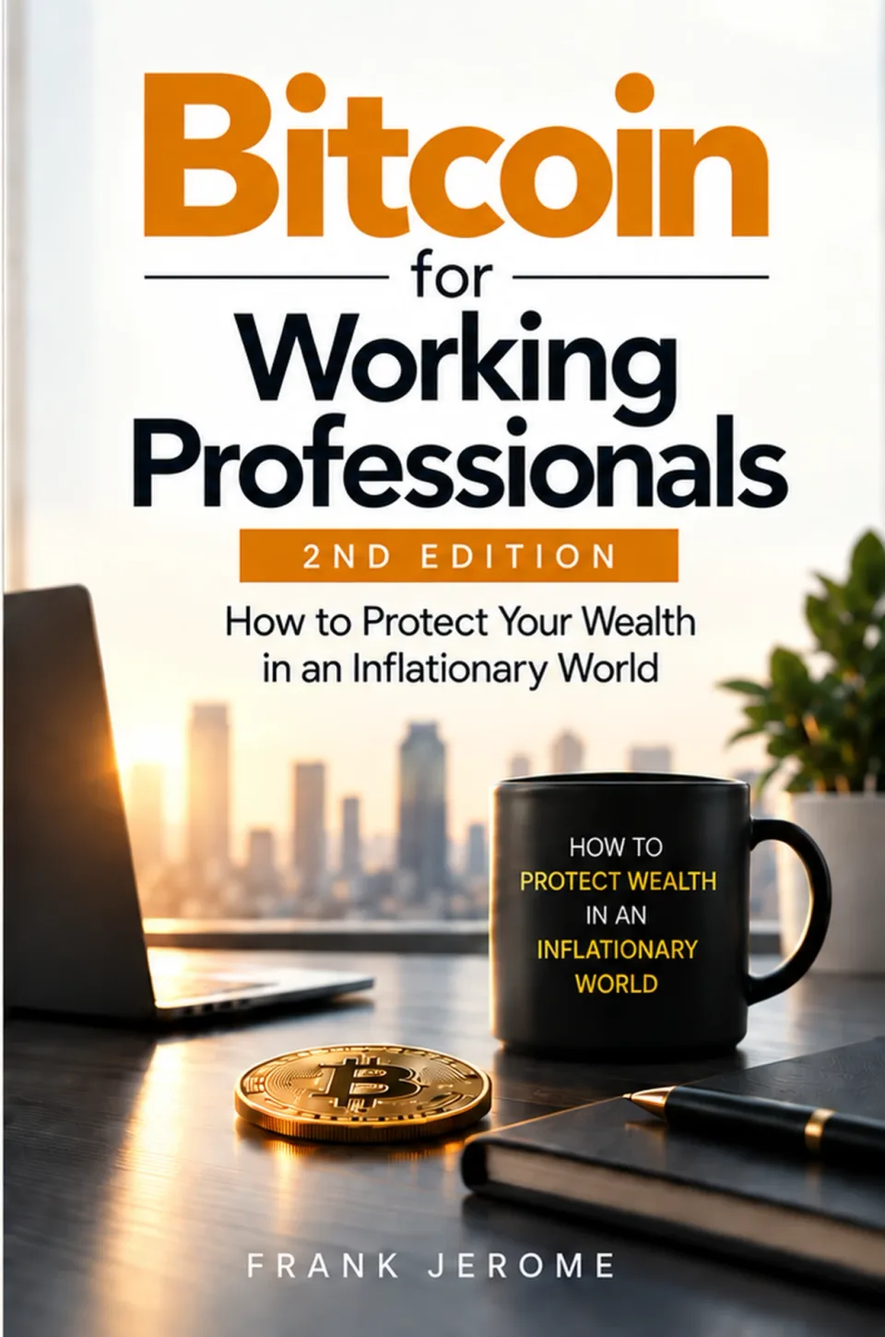
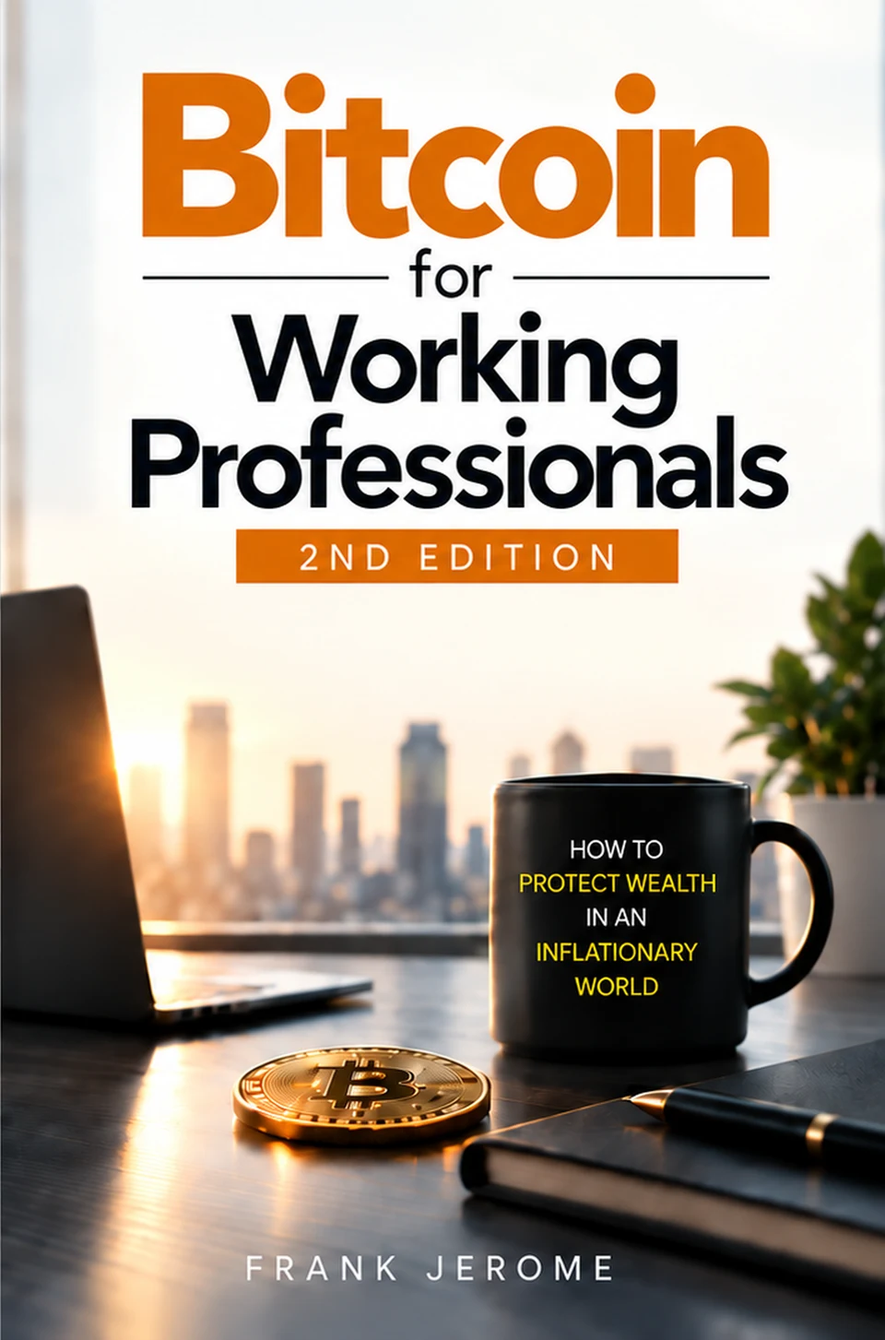
Use supplied actual second-edition book cover across website

diff --git a/tools/preview/v6/index.html b/tools/preview/v6/index.html
@@ -144,7 +144,7 @@
 <section class="interactive" id="interactive" aria-labelledby="sim-title"><div class="shell interactive-layout"><div class="interactive-copy"><p class="eyebrow light">A LITTLE MATH. A LOT MORE CLARITY.</p><h2 id="sim-title">See what the<br><em>future could look like.</em></h2><p>Small, steady contributions can add up over time. Move the sliders and see how this illustrative projection changes instantly.</p><div class="slider-group"><div class="slider-heading"><label for="monthly">Monthly contribution</label><output id="monthly-value" for="monthly">$500</output></div><input id="monthly" type="range" min="50" max="2000" step="50" value="500"><div class="slider-bounds" aria-hidden="true"><span>$50</span><span>$2,000</span></div></div><div class="slider-group"><div class="slider-heading"><label for="years">Time horizon</label><output id="years-value" for="years">20 years</output></div><input id="years" type="range" min="1" max="40" step="1" value="20"><div class="slider-bounds" aria-hidden="true"><span>1 year</span><span>40 years</span></div></div><div class="slider-group"><div class="slider-heading"><label for="return">Hypothetical annual return</label><output id="return-value" for="return">7%</output></div><input id="return" type="range" min="0" max="12" step="0.5" value="7"><div class="slider-bounds" aria-hidden="true"><span>0%</span><span>12%</span></div></div><p class="micro-disclaimer">Illustrative monthly compounding; end-of-month contributions. Not a prediction, investment advice, or guaranteed return.</p><a class="sim-link" href="/tools/money-timeline/">Map your own goals in the Money timeline →</a></div><div class="chart-card"><div class="chart-top"><div><span class="chart-eyebrow">ILLUSTRATIVE PORTFOLIO VALUE</span><div class="chart-big" id="chart-total" aria-live="polite">$260,463</div></div><span class="chart-badge">LIVE DEMO <i></i></span></div><div class="chart-legend" aria-hidden="true"><span><i class="legend-growth"></i> Estimated growth</span><span><i class="legend-saved"></i> Your contributions</span></div><div id="projection-chart" class="projection-chart" role="img" aria-label="Projected portfolio value chart"></div><div class="chart-bottom"><div><span>Total invested</span><strong id="chart-invested">$120,000</strong></div><div><span>Illustrative growth</span><strong id="chart-growth">$140,463</strong></div><div><span>Time horizon</span><strong id="chart-time">20 years</strong></div></div><p class="chart-caveat">Actual returns fluctuate, and investments can lose value. This example excludes taxes, fees and inflation.</p></div></div></section>
 <section class="section guides-section shell reveal" id="guides" aria-labelledby="guides-title"><div class="section-top guide-top"><div><p class="eyebrow">GOOD ADVICE, MINUS THE NOISE <span class="mini-rule"></span></p><h2 id="guides-title">Guidance for life's<br><em>big moments.</em></h2><p>Because life doesn't arrive with an instruction manual.</p></div><a class="underlined-link" href="#tools" data-jump="guides">Browse all guides ↗</a></div><div class="guide-grid"><article class="guide-card feature-guide"><div class="guide-image guide-one"><img src="/tools/preview/v6/img/guide-career.webp" width="820" height="445" loading="lazy" decoding="async" alt="Illustration of a sunlit desk with a laptop, open notebook and coffee"><span class="guide-overlay-label">THE CAREER EDIT</span></div><div class="guide-body"><p class="guide-meta">CAREER · 5 MIN READ</p><h3>Lost your job?<br><em>Start here.</em></h3><p>A calm plan for the next seven days, your next month, and what comes after: unemployment, COBRA and your 401(k).</p><a class="guide-open" href="/tools/guides/lost-my-job/">Read the job-loss guide <span aria-hidden="true">↗</span></a></div></article><article class="guide-card feature-guide"><div class="guide-image guide-two"><img src="/tools/preview/v6/img/guide-home.webp" width="820" height="445" loading="lazy" decoding="async" alt="Illustration of a white suburban home in daylight"><span class="guide-overlay-label">THE HOME EDIT</span></div><div class="guide-body"><p class="guide-meta">HOME · 6 MIN READ</p><h3>First home.<br><em>Fresh perspective.</em></h3><p>What to know about down payments, closing costs, PMI, pre-approval and the numbers that matter.</p><a class="guide-open" href="/tools/guides/first-home/">Read the first-home guide <span aria-hidden="true">↗</span></a></div></article><article class="guide-card small-guide"><div class="small-guide-top"><span aria-hidden="true">✷</span><span>FREE CHECKUP</span></div><h3>A little clarity goes a long way.</h3><p>Answer a few simple questions and discover common financial blind spots, with no scores and no pressure.</p><a class="button dark-button" href="/tools/checkup/">Take the 2-minute checkup <span aria-hidden="true">↗</span></a><div class="small-guide-line"></div><span class="small-guide-foot">PRACTICAL ADVICE FOR REAL LIFE.</span></article></div><p class="more-guides">Also new: <a href="/tools/guides/true-cost-of-a-car/">The true cost of owning a car</a>, with a 5-year cost calculator.</p></section>
 <section class="steps-section" id="insights" aria-labelledby="steps-title"><div class="shell"><div class="steps-header"><p class="eyebrow">THE PYMTW WAY</p><h2 id="steps-title">Less confusion.<br><em>More confidence.</em></h2><p>You don't need to be a financial expert to make thoughtful financial decisions.</p></div><div class="steps-grid"><article><span class="step-num">01</span><div class="step-symbol" aria-hidden="true">⌕</div><h3>Ask a real question.</h3><p>Start with the decision on your mind. We'll point you to the right place to begin.</p></article><article><span class="step-num">02</span><div class="step-symbol" aria-hidden="true">▤</div><h3>Explore the numbers.</h3><p>Change assumptions and compare scenarios using straightforward tools that run on your device.</p></article><article><span class="step-num">03</span><div class="step-symbol" aria-hidden="true">↗</div><h3>See your next step.</h3><p>Walk away with one plain-English answer and practical considerations for what comes next.</p></article></div></div></section>
-<section class="book-section shell reveal" id="book" aria-labelledby="book-title"><div class="book-box"><div class="book-art"><span class="book-stage-orbit" aria-hidden="true"></span><div class="book-shadow" aria-hidden="true"></div><a class="actual-book-link" href="https://amzn.to/4zwsLbQ" target="_blank" rel="noopener sponsored"><img class="actual-book-cover" src="/tools/preview/v6/img/book-cover-504.webp" srcset="/tools/preview/v6/img/book-cover-336.webp 336w, /tools/preview/v6/img/book-cover-504.webp 504w" sizes="252px" alt="Bitcoin for Working Professionals, 2nd Edition, by Frank Jerome (cover). Opens Amazon." width="1236" height="1865" loading="lazy" decoding="async"></a></div><div class="book-copy"><p class="eyebrow">FROM OUR BOOKSHELF</p><h2 id="book-title">Go deeper.<br><em>Put your money to work.</em></h2><p><strong>Bitcoin for Working Professionals, 2nd Edition</strong><br>How to Protect Your Wealth in an Inflationary World.</p><p>Financial confidence grows one decision at a time. A practical, no-hype guide to understanding Bitcoin on your own terms, by Frank Jerome.</p><div class="book-links"><a class="button book-cta" href="https://amzn.to/4zwsLbQ" target="_blank" rel="noopener sponsored">Get the book on Amazon <span aria-hidden="true">↗</span></a><a class="book-page" href="/book/">About the book</a></div><small>Amazon affiliate link. PYMTW may earn from qualifying purchases.</small></div></div></section>
+<section class="book-section shell reveal" id="book" aria-labelledby="book-title"><div class="book-box"><div class="book-art"><span class="book-stage-orbit" aria-hidden="true"></span><div class="book-shadow" aria-hidden="true"></div><a class="actual-book-link" href="https://amzn.to/4zwsLbQ" target="_blank" rel="noopener sponsored"><img class="actual-book-cover" src="/tools/preview/v6/img/book-cover-504.webp" srcset="/tools/preview/v6/img/book-cover-336.webp 336w, /tools/preview/v6/img/book-cover-504.webp 504w" sizes="252px" alt="Bitcoin for Working Professionals, 2nd Edition, by Frank Jerome (cover). Opens Amazon." width="1834" height="2775" loading="lazy" decoding="async"></a></div><div class="book-copy"><p class="eyebrow">FROM OUR BOOKSHELF</p><h2 id="book-title">Go deeper.<br><em>Put your money to work.</em></h2><p><strong>Bitcoin for Working Professionals, 2nd Edition</strong><br>How to Protect Your Wealth in an Inflationary World.</p><p>Financial confidence grows one decision at a time. A practical, no-hype guide to understanding Bitcoin on your own terms, by Frank Jerome.</p><div class="book-links"><a class="button book-cta" href="https://amzn.to/4zwsLbQ" target="_blank" rel="noopener sponsored">Get the book on Amazon <span aria-hidden="true">↗</span></a><a class="book-page" href="/book/">About the book</a></div><small>Amazon affiliate link. PYMTW may earn from qualifying purchases.</small></div></div></section>
 <section class="quote-section shell" aria-label="Our belief"><blockquote>“Financial clarity isn't a luxury.<br><em>It's a brighter tomorrow.</em>”</blockquote><div class="signature"><span></span><strong>PYMTW</strong><small>PUT YOUR MONEY TO WORK</small></div></section>
 <section class="faq-section shell reveal" id="faq" aria-labelledby="faq-title"><p class="eyebrow">THE IMPORTANT DETAILS</p><h2 id="faq-title">Good questions.<br><em>Honest answers.</em></h2><div class="faq-grid"><details open><summary><h3>Are these financial tools really free?</h3></summary><p>Yes. Every PYMTW tool and guide is free to use, with no signup, no paywall and no ads.</p></details><details><summary><h3>Do my numbers leave the browser?</h3></summary><p>No. The calculators run entirely in your browser, so the numbers and files you enter stay on your device. The site counts anonymous page visits with GoatCounter, and if you join the newsletter, the signup form is run by beehiiv, which receives the email address you enter.</p></details><details><summary><h3>Which tool should I start with?</h3></summary><p>If you are not sure, take the 2-minute money checkup. It asks a few questions and gives you a short, prioritized list of what to look at, with links to the right tools.</p></details><details><summary><h3>Is this financial advice?</h3></summary><p>No. The tools are educational and give estimates based on what you enter and the assumptions shown. For decisions about your situation, talk to a licensed professional.</p></details></div></section>
 <section class="newsletter" id="newsletter" aria-labelledby="nl-title"><div class="shell"><div class="newsletter-inner"><div class="newsletter-copy"><p class="eyebrow">NEWSLETTER</p><h2 id="nl-title">One genuinely useful money idea per issue</h2><p class="newsletter-sub">Free. No spam. Unsubscribe anytime.</p><p class="newsletter-archive"><a href="https://pymtwtools.beehiiv.com" target="_blank" rel="noopener">Browse the newsletter archive ↗</a></p></div><div class="newsletter-form"></div></div></div></section>

diff --git a/tools/index.html b/tools/index.html
@@ -176,7 +176,7 @@
 
   <section class="trust-section shell" id="trust" aria-labelledby="trust-title"><div class="trust-heading"><p class="eyebrow">CLEAR ABOUT THE DETAILS</p><h2 id="trust-title">Trust should be <em>easy to see.</em></h2></div><div class="trust-grid"><div><svg viewBox="0 0 24 24" aria-hidden="true"><path d="m12 2 8 4v6c0 5-3 8.2-8 10-5-1.8-8-5-8-10V6z"/><path d="m8 12 3 3 5-6"/></svg><h3>Private calculations</h3><p>Local example calculations run in your browser. No account required.</p></div><div><svg viewBox="0 0 24 24" aria-hidden="true"><path d="M7 3h10l4 4v14H3V3z"/><path d="M17 3v5h5M7 12h10M7 16h7"/></svg><h3>See the assumptions</h3><p>Example inputs and formulas are displayed, with clear limits on what estimates mean.</p></div><div><svg viewBox="0 0 24 24" aria-hidden="true"><circle cx="12" cy="8" r="4"/><path d="M4 21c0-4 3-7 8-7s8 3 8 7"/></svg><h3>Created by a person</h3><p>PYMTW stands for Put Your Money to Work, founded by financial educator Frank Jerome.</p></div></div></section>
 
-  <section class="about-section" id="behind" aria-labelledby="about-title"><div class="shell about-layout"><div class="book-figure"><div class="book-glow" aria-hidden="true"></div><img src="v7/image-4.webp" width="1236" height="1865" loading="lazy" alt="Original front cover of Bitcoin for Working Professionals, 2nd Edition, by Frank Jerome"><span>BITCOIN FOR WORKING PROFESSIONALS · SECOND EDITION</span></div><div class="about-copy"><p class="eyebrow">THE PERSON BEHIND PYMTW</p><h2 id="about-title">Good money guidance<br>should feel <em>human.</em></h2><p>PYMTW means <strong>Put Your Money to Work.</strong> It was created by Frank Jerome, a financial educator and author with more than a decade of Wall Street experience.</p><p>His book, <em>Bitcoin for Working Professionals, 2nd Edition</em>, is written for busy people who want clear explanations instead of hype.</p><a class="text-cta" href="https://amzn.to/4zwsLbQ" rel="noopener sponsored" target="_blank">Explore the book on Amazon <span>↗</span></a><small>The book is optional. The tools are free to use. The Amazon link may generate an affiliate commission.</small></div></div></section>
+  <section class="about-section" id="behind" aria-labelledby="about-title"><div class="shell about-layout"><div class="book-figure"><div class="book-glow" aria-hidden="true"></div><img src="v7/image-4.webp" width="1834" height="2775" loading="lazy" alt="Original front cover of Bitcoin for Working Professionals, 2nd Edition, by Frank Jerome"><span>BITCOIN FOR WORKING PROFESSIONALS · SECOND EDITION</span></div><div class="about-copy"><p class="eyebrow">THE PERSON BEHIND PYMTW</p><h2 id="about-title">Good money guidance<br>should feel <em>human.</em></h2><p>PYMTW means <strong>Put Your Money to Work.</strong> It was created by Frank Jerome, a financial educator and author with more than a decade of Wall Street experience.</p><p>His book, <em>Bitcoin for Working Professionals, 2nd Edition</em>, is written for busy people who want clear explanations instead of hype.</p><a class="text-cta" href="https://amzn.to/4zwsLbQ" rel="noopener sponsored" target="_blank">Explore the book on Amazon <span>↗</span></a><small>The book is optional. The tools are free to use. The Amazon link may generate an affiliate commission.</small></div></div></section>
 
   <section class="checkup-section shell" id="checkup" aria-labelledby="checkup-title"><div class="checkup-inner"><div><p class="eyebrow">ONE SIMPLE NEXT STEP</p><h2 id="checkup-title">Not sure where to begin?<br><em>Start with two minutes.</em></h2><p>Answer a few straightforward questions to see which money topics might deserve your attention. No judgment. No score.</p><a class="button-primary" href="/tools/checkup/" rel="noopener">Take the 2-minute money checkup <span>↗</span></a></div><div class="checkup-number" aria-hidden="true">02<span>minutes</span></div></div><p class="newsletter-note">Prefer to learn at your own pace? <a href="#newsletter">Get occasional money ideas by email ↗</a></p></section>
 

diff --git a/index.html b/index.html
@@ -18,7 +18,7 @@
 
 </div>
 <div class="support"><span>Not sure where to start?</span><a href="/tools/checkup/">Take the 2-minute money checkup ↗</a></div>
-<section class="book-feature" aria-labelledby="book-title"><div class="book-art"><div class="book-ring" aria-hidden="true"></div><img src="/assets/home/book-cover-480.webp" srcset="/assets/home/book-cover-480.webp 480w, /assets/home/book-cover-960.webp 960w" sizes="(max-width:650px) 250px, 320px" loading="lazy" width="1236" height="1865" alt="Bitcoin for Working Professionals, 2nd Edition, by Frank Jerome — original book cover"><span>BY FRANK JEROME · SECOND EDITION</span></div><div class="book-copy"><p class="eyebrow">GO A LITTLE DEEPER</p><h2 id="book-title">Bitcoin, explained<br>for your <em>working life.</em></h2><p class="book-name">Bitcoin for Working Professionals</p><p>A practical starting point for busy people who want to understand Bitcoin, think long term, and make informed decisions.</p><a class="book-cta" href="https://amzn.to/4zwsLbQ" target="_blank" rel="noopener sponsored">Explore the book on Amazon <span aria-hidden="true">↗</span></a><p class="book-disclosure">The book is optional. Our money tools are free.<br>Purchases through this link may earn an affiliate commission.</p></div></section>
+<section class="book-feature" aria-labelledby="book-title"><div class="book-art"><div class="book-ring" aria-hidden="true"></div><img src="/assets/home/book-cover-480.webp" srcset="/assets/home/book-cover-480.webp 480w, /assets/home/book-cover-960.webp 960w" sizes="(max-width:650px) 250px, 320px" loading="lazy" width="1834" height="2775" alt="Bitcoin for Working Professionals, 2nd Edition, by Frank Jerome — original book cover"><span>BY FRANK JEROME · SECOND EDITION</span></div><div class="book-copy"><p class="eyebrow">GO A LITTLE DEEPER</p><h2 id="book-title">Bitcoin, explained<br>for your <em>working life.</em></h2><p class="book-name">Bitcoin for Working Professionals</p><p>A practical starting point for busy people who want to understand Bitcoin, think long term, and make informed decisions.</p><a class="book-cta" href="https://amzn.to/4zwsLbQ" target="_blank" rel="noopener sponsored">Explore the book on Amazon <span aria-hidden="true">↗</span></a><p class="book-disclosure">The book is optional. Our money tools are free.<br>Purchases through this link may earn an affiliate commission.</p></div></section>
 <section class="home-newsletter"><div><h2>Get one clear money idea a week</h2><p>Free, practical notes from PYMTW Tools.</p></div><a href="https://pymtwtools.beehiiv.com/subscribe" target="_blank" rel="noopener">Subscribe free on Beehiiv ↗</a></section></main>
 <footer class="shell footer"><p>© 2026 PYMTW · Put Your Money to Work.</p><nav aria-label="Footer"><a href="/about.html">About</a><a href="/legal.html">Legal & privacy</a></nav></footer>
 

diff --git a/book/index.html b/book/index.html
@@ -82,7 +82,7 @@
       </div>
     </div>
     <div class="bk-hero-visual">
-      <div class="bk-real-cover"><img src="/assets/home/book-cover-480.webp" srcset="/assets/home/book-cover-480.webp 480w, /assets/home/book-cover-960.webp 960w" sizes="(max-width:650px) 250px, 320px" width="1236" height="1865" fetchpriority="high" alt="Bitcoin for Working Professionals, Second Edition, by Frank Jerome"></div>
+      <div class="bk-real-cover"><img src="/assets/home/book-cover-480.webp" srcset="/assets/home/book-cover-480.webp 480w, /assets/home/book-cover-960.webp 960w" sizes="(max-width:650px) 250px, 320px" width="1834" height="2775" fetchpriority="high" alt="Bitcoin for Working Professionals, Second Edition, by Frank Jerome"></div>
       <div class="bk-float-badge bk-float-1">
         <span class="bk-float-emoji">&#128176;</span>
         <span>Purchasing Power</span>

diff --git a/bitcoin/index.html b/bitcoin/index.html
@@ -168,7 +168,7 @@
 <div class="book-art">
 <div class="book-halo">
 </div>
-<img src="/assets/home/book-cover-480.webp" srcset="/assets/home/book-cover-480.webp 480w, /assets/home/book-cover-960.webp 960w" sizes="(max-width:650px) 250px, 320px" width="1236" height="1865" alt="Bitcoin for Working Professionals, second edition, by Frank Jerome">
+<img src="/assets/home/book-cover-480.webp" srcset="/assets/home/book-cover-480.webp 480w, /assets/home/book-cover-960.webp 960w" sizes="(max-width:650px) 250px, 320px" width="1834" height="2775" alt="Bitcoin for Working Professionals, second edition, by Frank Jerome">
 <p>FRANK JEROME · SECOND EDITION</p>
 </div>
 <div class="book-copy">

diff --git a/tests/v7-preservation.py b/tests/v7-preservation.py
@@ -1,12 +1,18 @@
 """Preserve current live calculator behavior and content during the approved audit fixes."""
 from pathlib import Path
-import subprocess,re
+import subprocess,re,json,hashlib
 root=Path(__file__).resolve().parents[1]
 # PRs 10–12 intentionally superseded the original V7 snapshot. Protect current main.
 base='876fcc6827857ceca9d5b5d6798bbb62fb9b08c9'
 def original(path):return subprocess.check_output(['git','show',base+':'+path],cwd=root)
 paths=subprocess.check_output(['git','ls-tree','-r','--name-only',base],cwd=root,text=True).splitlines()
 count=0
+# Frank explicitly replaced the book artwork with his supplied second-edition cover.
+cover_manifest=json.loads((root/'assets/home/book-cover-provenance.json').read_text())
+approved_covers={'assets/home/book-cover.webp','assets/home/book-cover-480.webp','assets/home/book-cover-960.webp','tools/v7/image-4.webp','tools/preview/v6/img/book-cover-336.webp','tools/preview/v6/img/book-cover-504.webp'}
+assert set(cover_manifest['assets'])==approved_covers
+for name,digest in cover_manifest['assets'].items():
+ assert hashlib.sha256((root/name).read_bytes()).hexdigest()==digest,name+' approved cover changed'
 for name in paths:
  p=root/name
  if name.endswith('.js') and not name.startswith('tests/'):
@@ -18,7 +24,7 @@ for name in paths:
   elif name=='tools/v7/home.js':continue # Approved benefit copy and 404-search handoff; tested in browser.
   assert before==after,name+' behavior changed';count+=1
  if name in ['CNAME','tools/robots.txt','googlea70c61482c1a9eed.html','bitcoin-playbook.pdf'] or name.endswith(('.csv','.webp','.woff2')):
-  assert p.read_bytes()==original(name),name+' original asset changed'
+  if name not in approved_covers:assert p.read_bytes()==original(name),name+' original asset changed'
  if name.startswith('tools/') and name.endswith('index.html') and '/preview/' not in name:
   before=original(name).decode();after=p.read_text()
   for pattern in [r'<!-- seo:head -->.*?<!-- /seo:head -->',r'<script type="application/ld\+json">.*?</script>',r'<form\b.*?</form>',r'<fieldset\b.*?</fieldset>']:
@@ -32,4 +38,4 @@ for name in paths:
 old=original('legal.html').decode().replace('https://www.pymtw.com','https://pymtw.com')
 new=(root/'legal.html').read_text().replace('<meta name="referrer" content="strict-origin-when-cross-origin">\n','').replace('<script src="/assets/site-analytics.js" defer></script>\n','')
 assert old==new,'Privacy policy content changed'
-print(f'Preserved {count} current JavaScript files (debt labels excepted), original images/data/PDF/verification, tool SEO/schema/forms/paragraphs and privacy disclosures.')
+print(f'Preserved {count} current JavaScript files (debt labels excepted), original photos/data/PDF/verification, tool SEO/schema/forms/paragraphs and privacy disclosures; verified user-approved replacement book assets.')

diff --git a/REVIEW-SITE-AUDIT.md b/REVIEW-SITE-AUDIT.md
@@ -1,6 +1,6 @@
 # Website audit fixes — review only
 
-One PR based on live main `876fcc6`. Do not merge or deploy until Frank approves. The current design, original photos and cover, calculator math/data, privacy disclosures, provider configuration, and Google Search Console verification are retained.
+One PR based on live main `876fcc6`. Do not merge or deploy until Frank approves. The current design, original photos and user-approved replacement cover, calculator math/data, privacy disclosures, provider configuration, and Google Search Console verification are retained.
 
 ## Findings and changes by audit item
 
@@ -28,7 +28,7 @@ One PR based on live main `876fcc6`. Do not merge or deploy until Frank approves
 Passed:
 
 - `node tests/v7-newsletter.cjs` — optional provider loading, failures/timeouts, no false subscription success.
-- `python3 tests/v7-preservation.py` — current source preservation, calculator scripts, original assets/data, tool forms/schema/content, privacy disclosures, verification file.
+- `python3 tests/v7-preservation.py` — current source preservation, calculator scripts, original photos/data and approved replacement cover, tool forms/schema/content, privacy disclosures, verification file.
 - `python3 tests/v7-links.py` — 337 Tools references, no broken links.
 - `node tests/v7-calculations.cjs` — 17 original calculation assertions.
 - `node tests/bitcoin-reliability.cjs` — DCA known values, timing, date bounds, invalid inputs, missing prices and CSV parity.
@@ -40,7 +40,7 @@ Passed:
 
 Set `PLAYWRIGHT_PATH` to an installed Playwright module and `NODE` to Node for the Python syntax checker. Browser checks use Chrome and default to `http://127.0.0.1:8771`. Use `PREVIEW_URL` to override it.
 
-The requested preservation test initially failed on changes already merged in PRs 10–12. It now compares against current live main, allowing only audit-specific debt labels/config hostname changes, and continues protecting math, source data, forms, schemas, original images and privacy wording. The newsletter and link tests were not weakened or replaced.
+The requested preservation test initially failed on changes already merged in PRs 10–12. It now compares against current live main, allowing only audit-specific debt labels/config hostname changes, and continues protecting math, source data, forms, schemas, original photos and privacy wording. The later user-approved cover replacement is restricted to six named book assets, verified against their provenance manifest. The newsletter and link tests were not weakened or replaced.
 
 ## Lighthouse mobile results
 
@@ -62,3 +62,9 @@ Lighthouse 12.8.2, Chrome, default mobile simulation against the local review bu
 - Preserve the Google verification file rather than adding metadata to it.
 - No new financial claims, product prices or calculator source data were introduced or certified.
 - Existing historical PR preservation tests capture earlier snapshots and are not claims that later approved work remains byte-for-byte identical to those snapshots.
+
+## Confirmed cover replacement
+
+Frank supplied `Bitcoin_for_Working_Professionals_2nd_Edition_KDP_NO_WHITE_BOX_12.784x9.250_300dpi.png`. The website now uses its front panel, with no subtitle directly below “2ND EDITION.” Only extraction, proportional resizing and WebP compression were applied; the artwork and lettering were not regenerated. Homepage, Bitcoin, book, Tools, historical preview and three social-preview images use this cover. Source SHA-256, exact crop coordinates and derivative hashes are in `assets/home/book-cover-provenance.json`. September 2026 and the approved Amazon link remain unchanged. This replacement remains review-only in PR #13.
+
+Cover-update validation: all four current pages loaded the new image at 390px and 1280px without cover overflow. The 57-page static check (1,190 local references) and preservation check passed again. Lighthouse scores above were recorded before this cover-only replacement; they were not remeasured.
